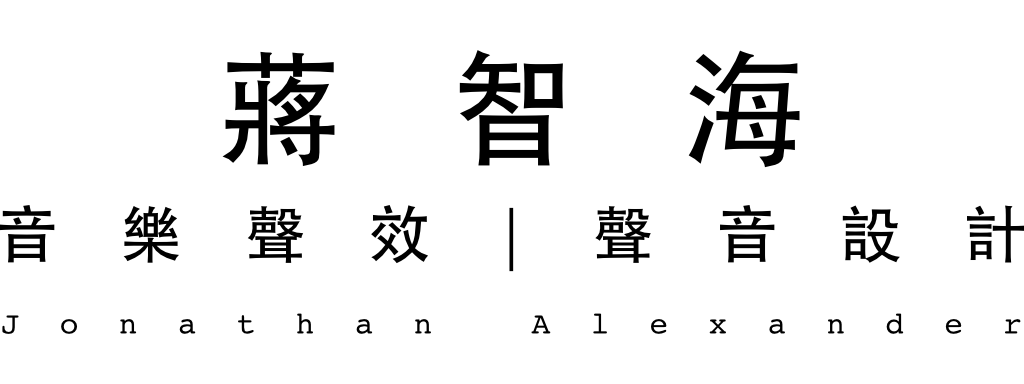
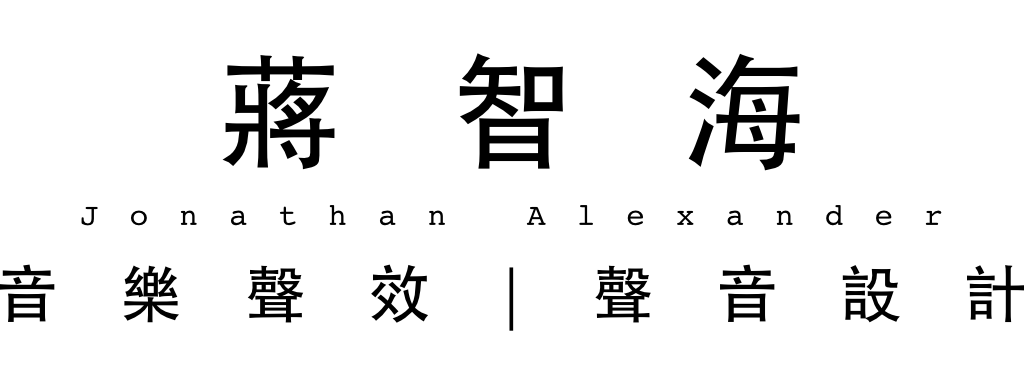
更新JS和中文標題

diff --git a/script.js b/script.js
@@ -56,7 +56,7 @@ const languages = [
     {
         "language ISO": "zh",
         "nav text": ["◂首頁", "ZH/EN"],
-        "hero img src": "./assets/hero-title/web-hero-title-音樂聲效-聲音設計-alt.png",
+        "hero img src": "./assets/hero-title/web-hero-title-音樂聲效-聲音設計.png",
         "button text": ["音樂聲效", "關於我", "樂譜"],
         "credits text": "作品集：",
         "contact text": "與我聯絡",
